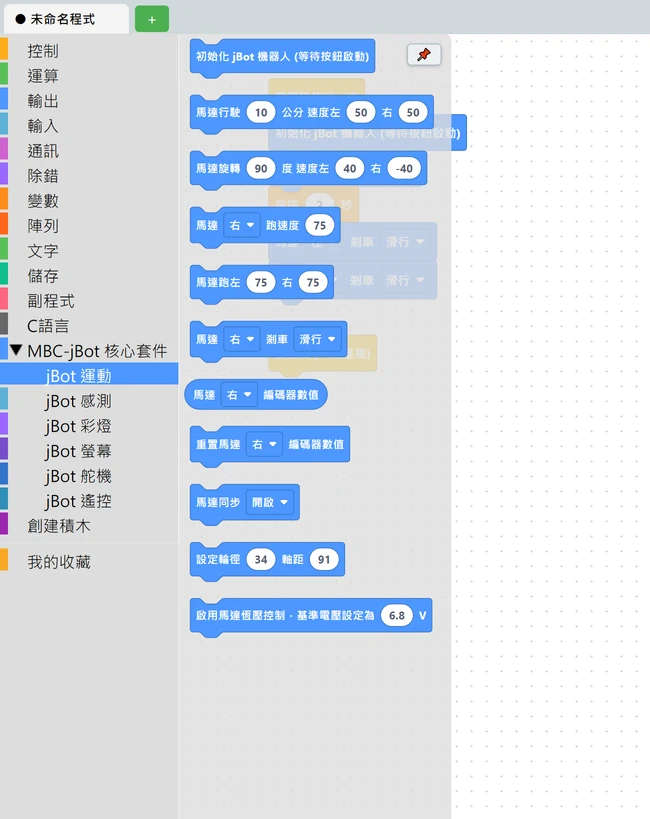
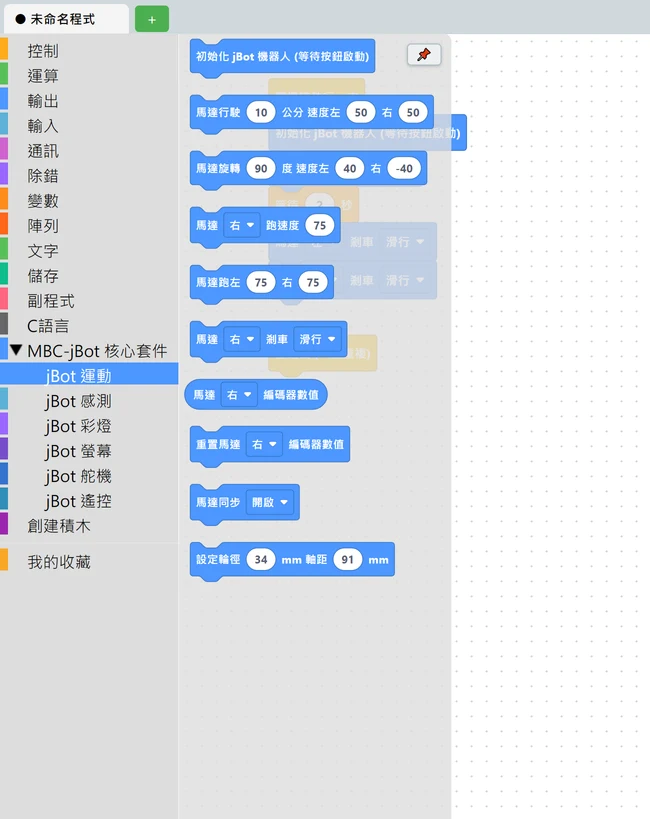
jBot 積木包：拿掉「馬達恆壓控制」（升壓穩壓的硬體用不到、會讓速度失真）、輪徑軸距標 mm；手冊更正電池電壓單位為毫伏

Changed region(s): [[0.2769, 0.641, 0.6769, 0.7937]]

diff --git a/docs/api/index.md b/docs/api/index.md
@@ -20,7 +20,7 @@
 | 函式名稱 | 用途說明 | 參數說明 |
 | :--- | :--- | :--- |
 | `Bot.begin()` | **必須呼叫**。初始化所有硬體腳位與感測器。 | 無 |
-| `Bot.getBatteryVoltage()` | 讀取目前電池電壓數值，可用於電壓顯示。 | 回傳 `uint16_t` (0~1023 對應 0~5V) |
+| `Bot.getBatteryVoltage()` | 讀取目前電池電壓數值，可用於電壓顯示。 | 回傳 `uint16_t`，單位毫伏 mV（例如 `3700` = 3.7V）；按住按鈕時會讀到接近 0 |
 
 ## 🏎 馬達與編碼器
 | 函式名稱 | 用途說明 | 參數說明 |

diff --git a/docs/api/setup.md b/docs/api/setup.md
@@ -61,7 +61,7 @@ MBC-jBot 內建了電池電壓偵測（透過內部 ADC 腳位）。
 
 如果想手動在程式裡讀取當前電壓，可以使用：
 ```cpp
-uint16_t voltage = Bot.getBatteryVoltage(); // 回傳轉換後的電壓數值
+uint16_t voltage = Bot.getBatteryVoltage(); // 單位毫伏 mV，例如 3700 代表 3.7V（按住按鈕時會讀到接近 0）
 ```
 
 > [!WARNING]
